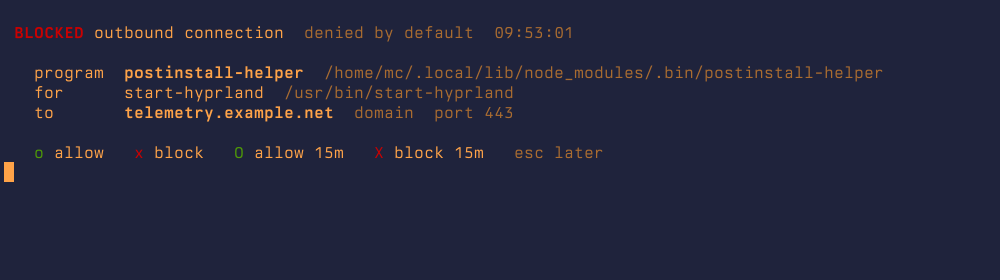
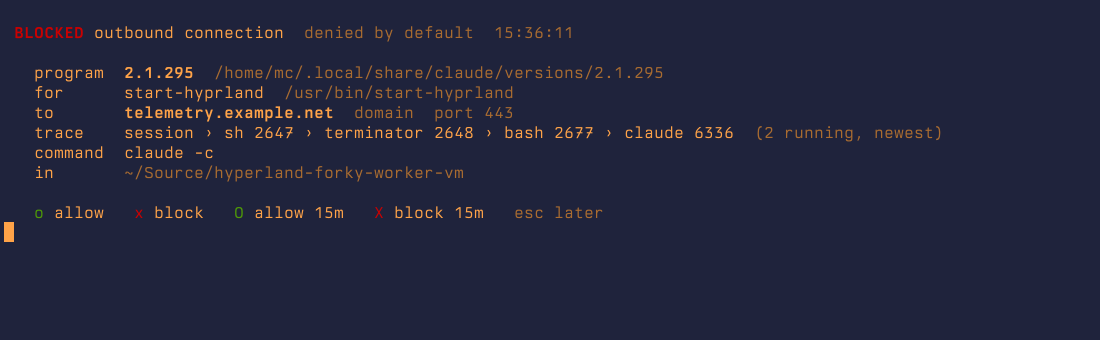
snitch popups: trace of the process behind a blocked connection
Little Snitch only names the program (often just "start-hyprland via ..."). The watcher now
looks up the running process in /proc when the block arrives and the popup shows:
- trace: how it was started, from the session down (session › terminator › bash › claude,
  with PIDs; systemd / start-hyprland / Hyprland collapse to "session")
- its command line and working directory; how many such processes run
- "already exited" for short-lived programs, "could not identify" when Little Snitch couldn't
Program names read as in the egress graph (claude 2.1.295); popup window 1100x340.

diff --git a/docs/snitch/README.md b/docs/snitch/README.md
@@ -49,6 +49,12 @@ With **deny by default**, a connection no rule covers is blocked and a popup ask
 | `O` / `X` | allow / block for 15 minutes (`temporary` in the config) |
 | esc | decide later (asks again after `snooze`, 10 min) |
 
+Below the destination the popup shows a **trace**: the running process behind the connection
+and how it was started (`session › terminator › bash › claude`, with PIDs; the session itself is
+known and shown as `session`), its command line and working directory. Little Snitch only names
+the program, so `snitch` looks the process up in `/proc` the moment the block arrives;
+short-lived programs such as `curl` may have exited by then, and the popup says so.
+
 The popup ignores keys for its first 0.6 s, so it can't catch an `o` or `x` you were typing
 somewhere else. The program has to retry after you allow it; nothing is held open.
 
